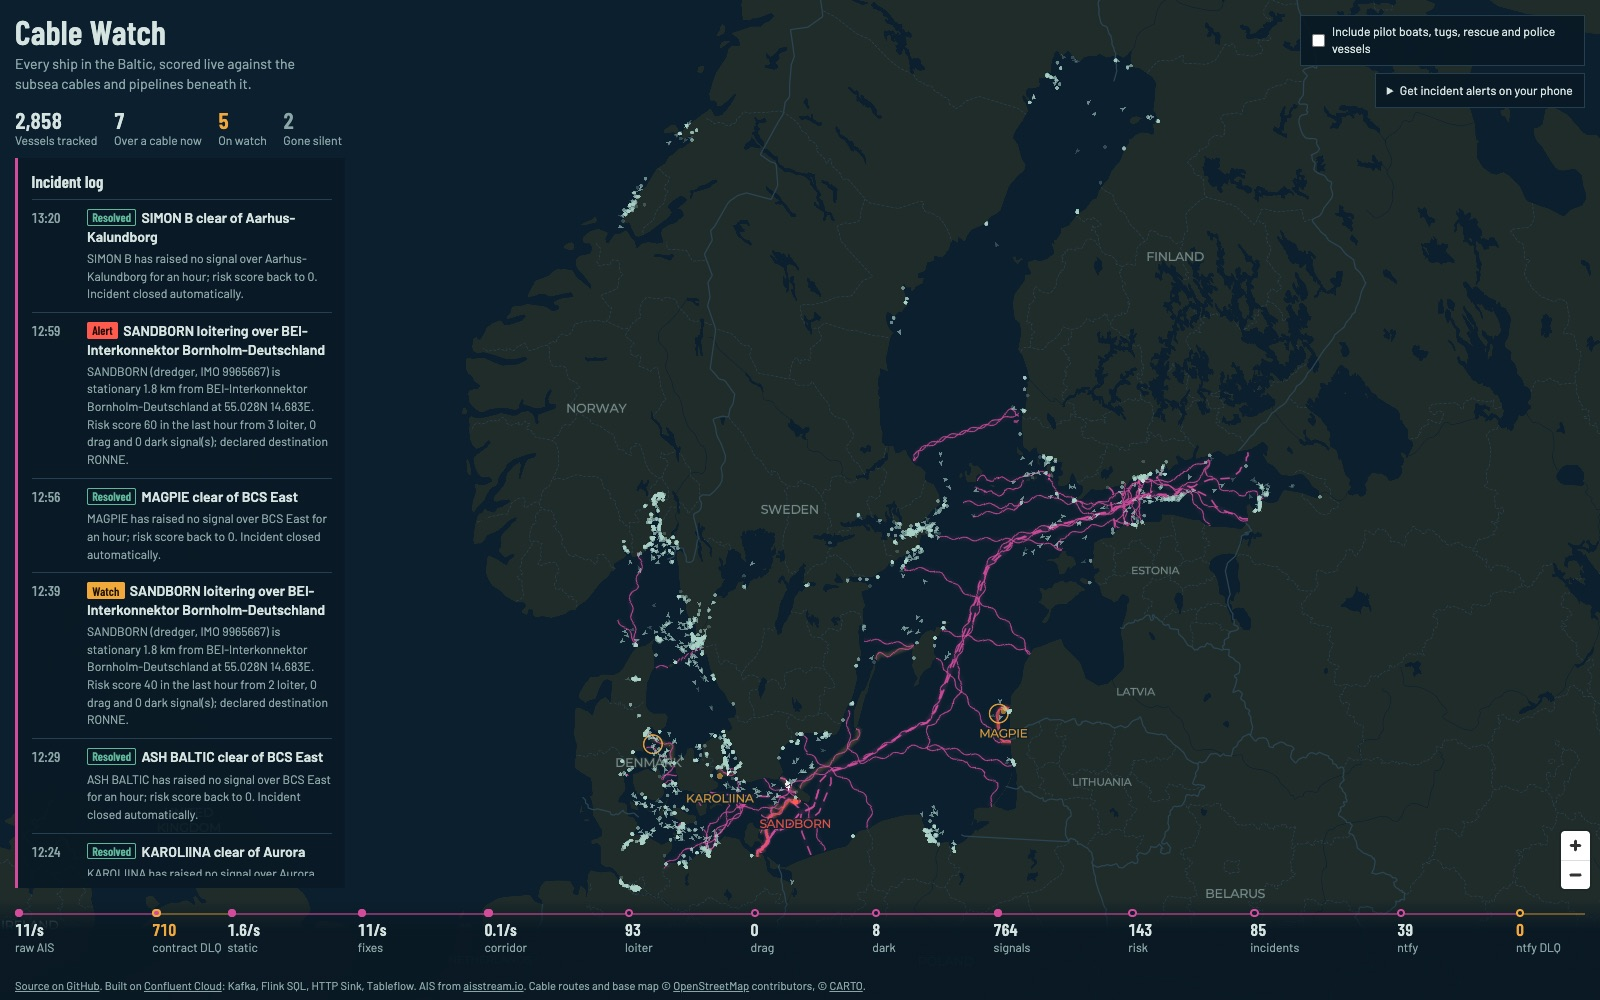
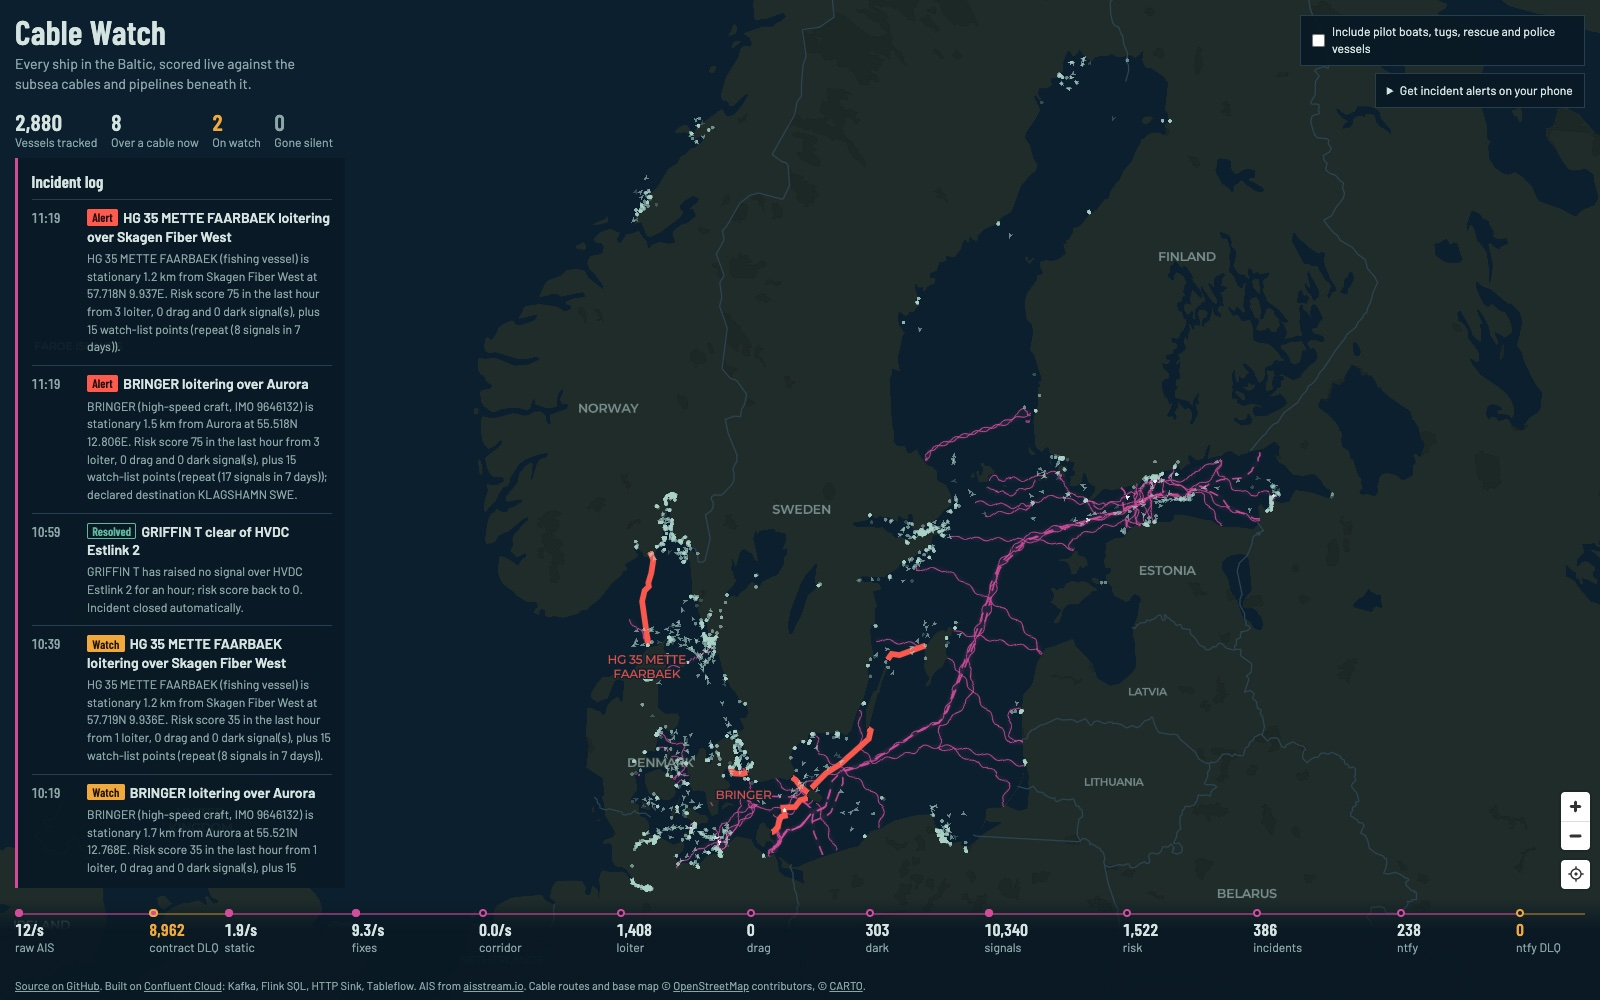
Fit the dashboard to phones and add a recenter button.
On narrow or short screens the counters sit above the map and the incident
log and pipeline strip below it; the vessel panel becomes a bottom sheet.
The initial fit and the new recenter control pad for whatever panels float
over the map at each size. Refresh the README screenshots and add a phone one.

diff --git a/app/static/app.js b/app/static/app.js
@@ -54,15 +54,42 @@ const ago = (t) => {
 // ---------------------------------------------------------------------------
 // Map
 // ---------------------------------------------------------------------------
+const BALTIC = [[8.8, 53.5], [30.5, 66.0]];
+// Phones stack the panels below the map (see style.css), so the map is unobstructed.
+const stacked = () => matchMedia("(max-width: 640px), (max-height: 500px)").matches;
+// Keep the Baltic clear of whatever panels float over the map at this size.
+function fitPadding() {
+  if (stacked()) return 16;
+  if (innerWidth <= 900) {
+    const pad = { top: 150, bottom: innerHeight * 0.3 + 120, left: 30, right: 30 };
+    return pad.top + pad.bottom < innerHeight * 0.75 ? pad : 30;
+  }
+  return { top: 40, bottom: 110, left: 390, right: 40 };
+}
+
 const map = new maplibregl.Map({
   container: "map",
   style: "https://basemaps.cartocdn.com/gl/dark-matter-gl-style/style.json",
-  bounds: [[9.5, 53.5], [30.5, 66.0]],
-  fitBoundsOptions: { padding: { top: 40, bottom: 110, left: 390, right: 40 } },
+  bounds: BALTIC,
+  fitBoundsOptions: { padding: fitPadding() },
   minZoom: 3,
   maxZoom: 13,
   attributionControl: false, // credited in the footer, which keeps the zoom buttons clear
 });
+
+class RecenterControl {
+  onAdd() {
+    this.el = document.createElement("div");
+    this.el.className = "maplibregl-ctrl maplibregl-ctrl-group";
+    this.el.innerHTML = `<button type="button" class="recenter" title="Recenter on the Baltic" aria-label="Recenter on the Baltic">
+      <svg viewBox="0 0 20 20" width="18" height="18" aria-hidden="true"><circle cx="10" cy="10" r="5.5" fill="none" stroke="currentColor" stroke-width="1.6"/>
+      <circle cx="10" cy="10" r="1.8" fill="currentColor"/><path d="M10 1.5v3M10 15.5v3M1.5 10h3M15.5 10h3" stroke="currentColor" stroke-width="1.6"/></svg></button>`;
+    this.el.firstElementChild.addEventListener("click", () => map.fitBounds(BALTIC, { padding: fitPadding() }));
+    return this.el;
+  }
+  onRemove() { this.el.remove(); }
+}
+map.addControl(new RecenterControl(), "bottom-right");
 map.addControl(new maplibregl.NavigationControl({ showCompass: false }), "bottom-right");
 
 // Chart-night palette over the CARTO base: deep blue water, slate land, and
@@ -531,6 +558,7 @@ async function openVessel(mmsi, fly = false, at = null) {
 
 function flyToVessel(fallback = null) {
   const center = selectedPos || fallback;
+  if (center && stacked()) $("map").scrollIntoView({ behavior: "smooth", block: "start" });
   if (center) map.flyTo({ center, zoom: Math.max(map.getZoom(), 9.5), speed: 1.6 });
 }
 $("vessel-locate").addEventListener("click", () => flyToVessel());

diff --git a/app/static/style.css b/app/static/style.css
@@ -201,7 +201,7 @@ h1, h2, h3 { font-family: var(--figures); font-weight: 600; margin: 0; letter-sp
   position: fixed;
   top: 9.5rem;
   right: 1rem;
-  bottom: 11.5rem; /* leaves room for the zoom buttons beneath it */
+  bottom: 14rem; /* leaves room for the zoom and recenter buttons beneath it */
   width: 21rem;
   overflow-y: auto;
   background: var(--panel);
@@ -327,6 +327,7 @@ h1, h2, h3 { font-family: var(--figures); font-weight: 600; margin: 0; letter-sp
 /* Keep the zoom buttons and attribution clear of the pipeline bar. */
 .maplibregl-ctrl-bottom-right { bottom: 6.75rem; }
 .maplibregl-ctrl-attrib a { color: var(--ink-dim) !important; }
+.recenter { display: grid !important; place-items: center; color: #333; }
 .popup-name { font: 600 var(--step-0)/1.2 var(--figures); }
 
 /* ------------------------------------------------------------------ small screens */
@@ -338,6 +339,32 @@ h1, h2, h3 { font-family: var(--figures); font-weight: 600; margin: 0; letter-sp
   .subscribe { display: none; }
   .log { top: auto; bottom: 6.5rem; height: 30vh; width: auto; right: 13rem; left: 0.75rem; }
   .vessel { top: 6rem; left: 0.75rem; right: 0.75rem; width: auto; bottom: 6.5rem; }
+}
+
+/* Phones (and short landscape screens): one scrolling column, with the
+   counts above the map and the controls, incident log and pipeline below it. */
+@media (max-width: 640px), (max-height: 500px) {
+  html, body { height: auto; overflow: auto; }
+  body { display: flex; flex-direction: column; }
+  .masthead, .controls, .log, .pipeline {
+    position: static;
+    width: auto;
+    max-width: none;
+    pointer-events: auto;
+  }
+  .masthead { order: -1; padding: max(0.75rem, env(safe-area-inset-top)) 0.75rem 0.5rem; }
+  .masthead h1 { font-size: var(--step-2); }
+  .lede { display: none; }
+  .counts { grid-template-columns: repeat(4, auto); justify-content: space-between; margin: 0.4rem -0.35rem 0; }
+  .stat .label { white-space: normal; }
+  #map { position: relative; inset: auto; height: 58svh; min-height: 18rem; flex: none; }
+  .maplibregl-ctrl-bottom-right { bottom: 0; }
+  .controls { align-items: stretch; margin: 0.6rem 0.75rem 0; }
+  .subscribe { display: none; }
+  .log { height: auto; max-height: 60svh; min-height: 12rem; margin: 0.6rem 0.75rem 0; }
+  .pipeline { background: none; padding: 0.75rem 0.75rem max(0.75rem, env(safe-area-inset-bottom)); }
+  /* The vessel panel becomes a bottom sheet; the map is scrolled to the top above it. */
+  .vessel { top: auto; left: 0; right: 0; bottom: 0; width: auto; max-height: 42svh; border-width: 1px 0 0; background: var(--water); }
 }
 
 @media (prefers-reduced-motion: reduce) {

diff --git a/README.md b/README.md
@@ -35,6 +35,7 @@ Confluent is the AIS producer and the web page.
   as on a nautical chart. A cable turns amber when a vessel over it is on WATCH
   and pulses red at ALERT. Ships are coloured by risk score. A vessel that falls
   silent near a cable leaves a hollow ghost marker that counts the minutes.
+  The crosshair under the zoom buttons recenters on the whole Baltic.
 - **Counters.** Vessels tracked, over a cable now, on watch, gone silent. Click
   one to list those ships (the map dims the rest); click a ship to open it.
 - **Incident log.** Every WATCH, ALERT and resolve, newest first, with a
@@ -48,8 +49,12 @@ Confluent is the AIS producer and the web page.
 - **Phone alerts.** A QR code subscribes your phone to the ntfy topic.
 - **Service vessels.** Pilot boats, tugs, rescue and police vessels are hidden
   unless you tick the box (see [Service vessels](#service-vessels)).
+- **On a phone.** The counters sit above the map, and the incident log and
+  pipeline strip below it; the vessel panel slides up from the bottom.
 
 ![Vessel panel: what kind of ship this is, its flag and dimensions, its speed, and the signals that scored](docs/vessel-panel.jpg)
+
+![On a phone: counters above the map, the incident log below it, and the vessel panel as a bottom sheet](docs/mobile.jpg)
 
 ## Architecture
 
